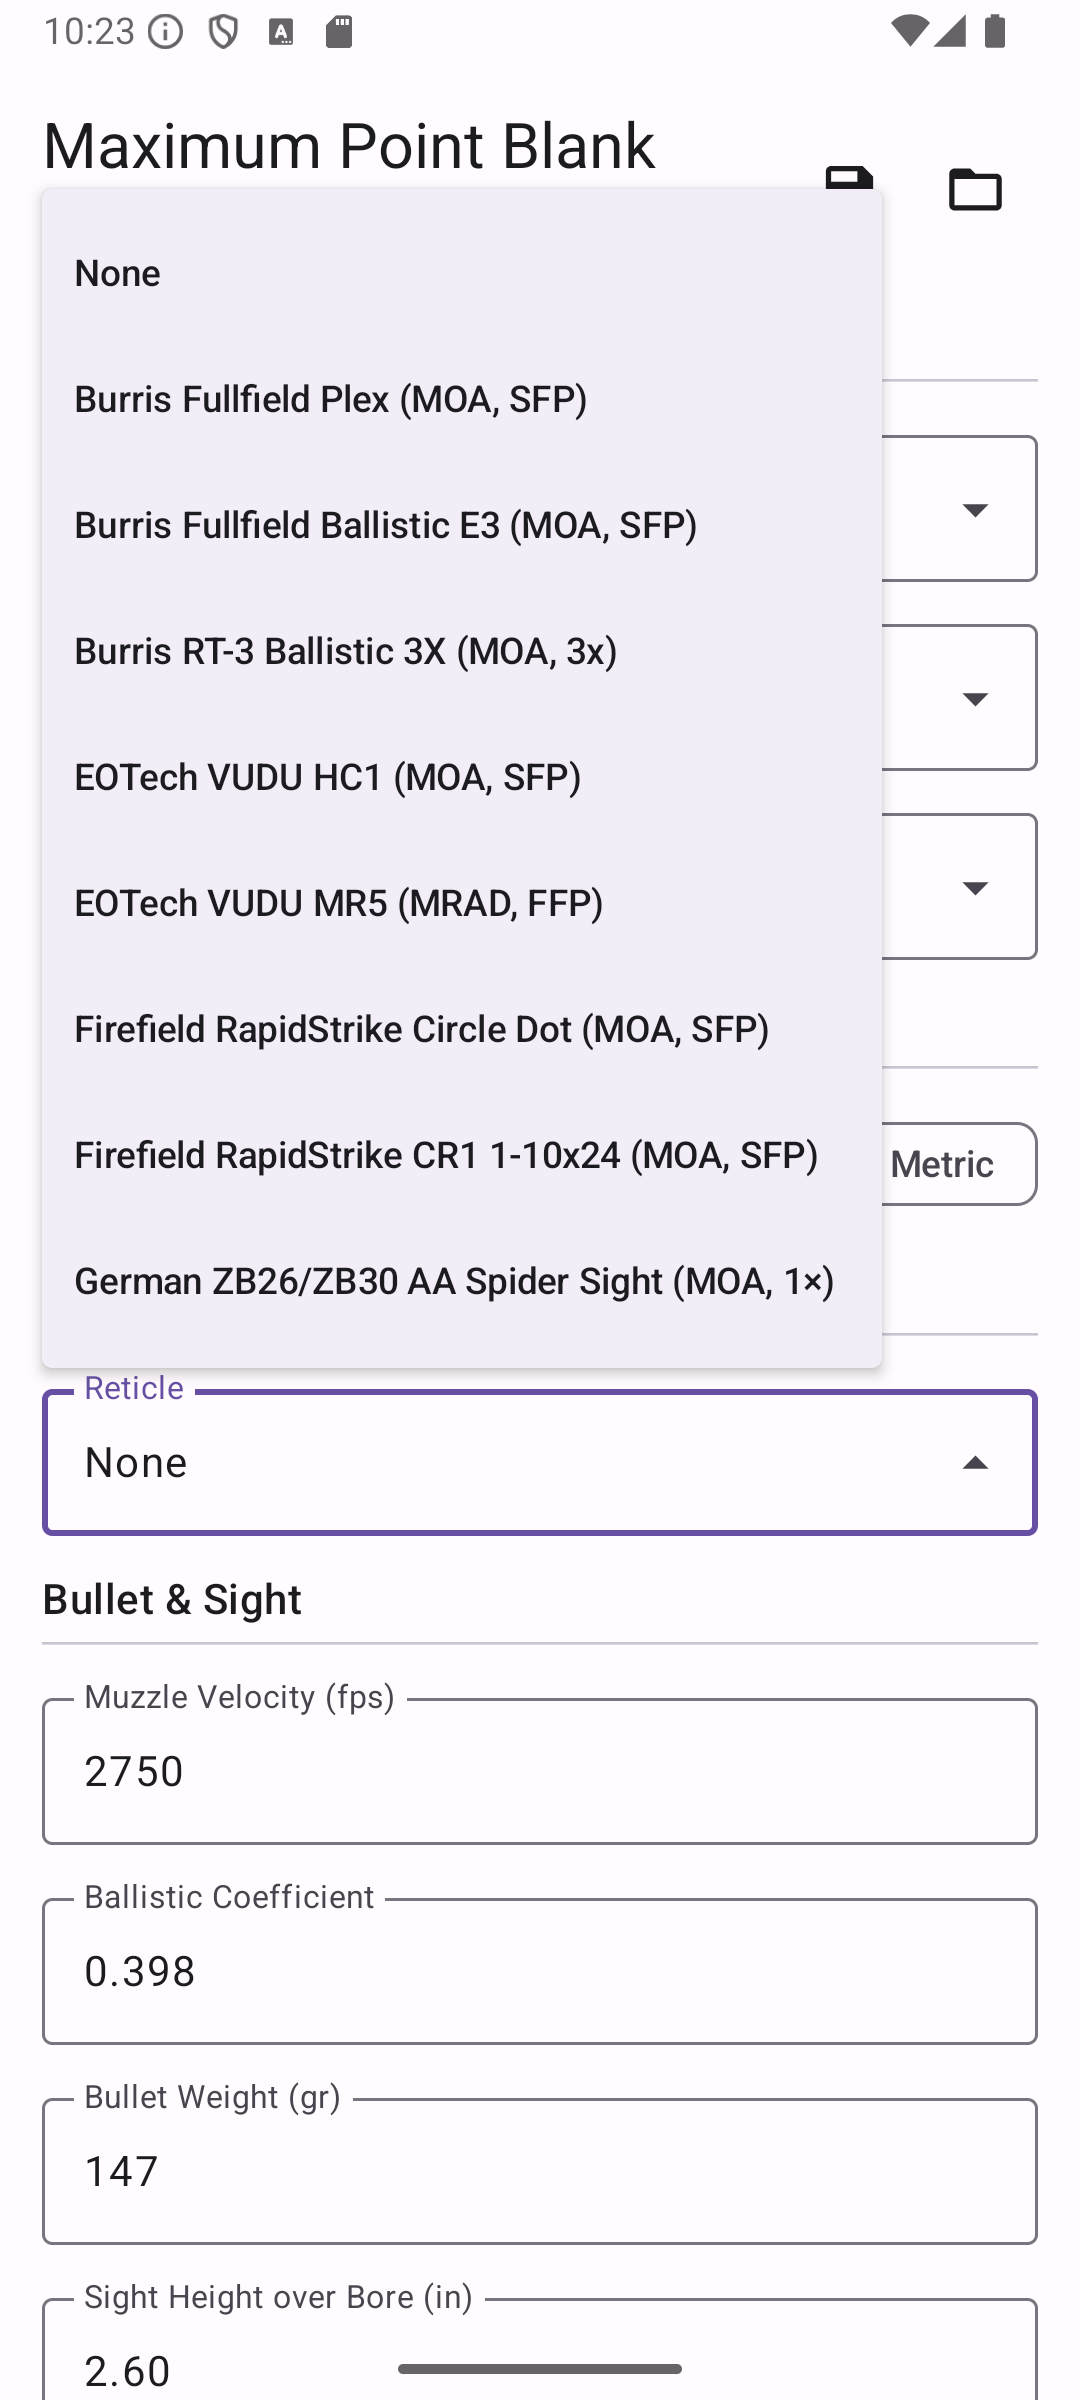
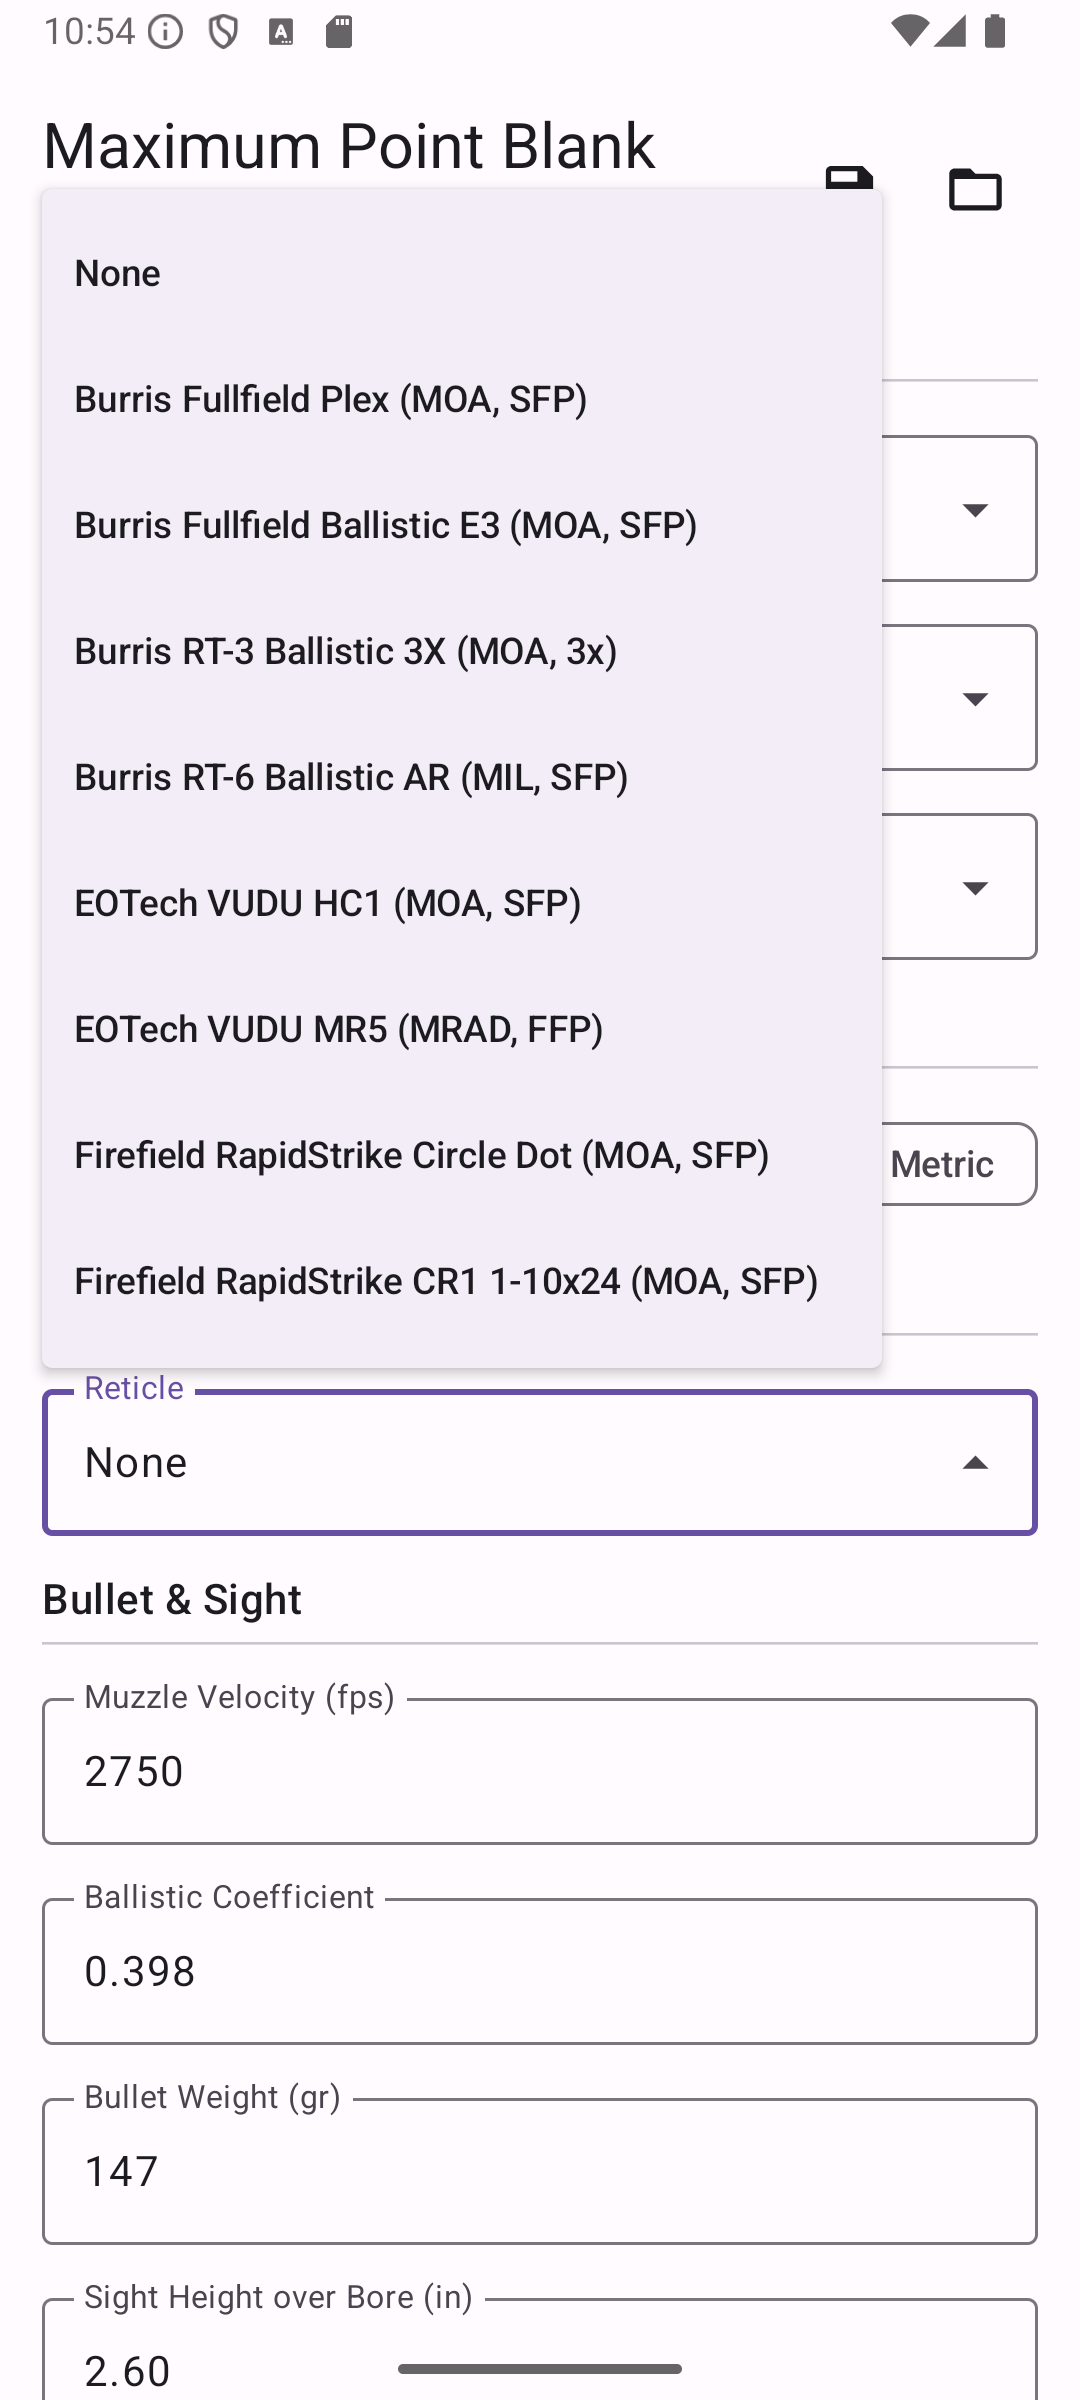
Refresh README screenshots for v2.00 (RT-6 reticle)
Swap the reticle-dropdown, reticle-selection, and results screenshots
to show the new Burris RT-6 Ballistic AR preset and its on-device
rendering, and regenerate the exported DOPE chart to match.

Claude-Session: https://claude.ai/code/session_01UqqZUyjPrMBnaQe3cFJ2kM

diff --git a/README.md b/README.md
@@ -22,13 +22,13 @@ the reticle's extent.
 <td align="center"><img src="screenshots/Screenshot_20260829-102400.MPBR%20Calculator.png" width="190"><br><em>Reticle preset dropdown by manufacturer</em></td>
 </tr>
 <tr>
-<td align="center"><img src="screenshots/Screenshot_20260829-102401.MPBR%20Calculator.png" width="190"><br><em>Inputs with Burris RT-3 Ballistic 3X selected</em></td>
+<td align="center"><img src="screenshots/Screenshot_20260829-102401.MPBR%20Calculator.png" width="190"><br><em>Inputs with Burris RT-6 Ballistic AR selected</em></td>
 <td align="center"><img src="screenshots/Screenshot_20260829-102402.MPBR%20Calculator.png" width="190"><br><em>Atmosphere and trajectory table settings</em></td>
 <td align="center"><img src="screenshots/Screenshot_20260829-102500.MPBR%20Calculator.png" width="190"><br><em>Results: MPBR summary + reticle illustration</em></td>
 </tr>
 <tr>
 <td align="center"><img src="screenshots/Screenshot_20260829-102600.MPBR%20Calculator.png" width="190"><br><em>Trajectory table and Save DOPE Chart</em></td>
-<td align="center"><img src="screenshots/DOPE_M80__7_62_51_NATO__20260829_222743.jpg" width="190"><br><em>Exported DOPE chart JPEG</em></td>
+<td align="center"><img src="screenshots/DOPE_M80__7_62_51_NATO__20260829_225500.jpg" width="190"><br><em>Exported DOPE chart JPEG</em></td>
 <td></td>
 </tr>
 </table>
